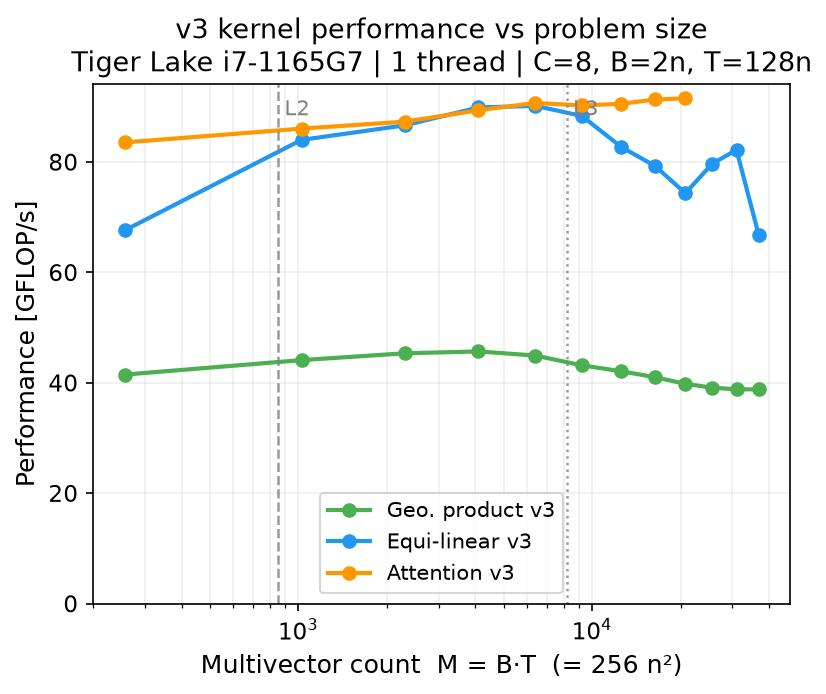
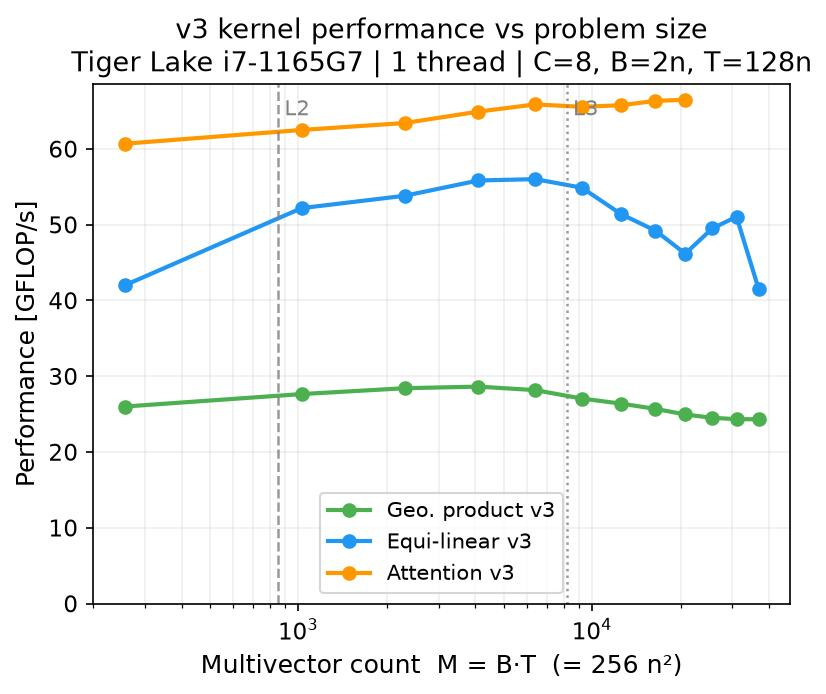
fix roofline plots: use FLOP/cycle x 2.8 GHz for GFLOP/s

diff --git a/benchmarks/plot_paper_figures.py b/benchmarks/plot_paper_figures.py
@@ -26,6 +26,7 @@ PEAK_BW_GBS = 45.0
 RIDGE       = PEAK_GFLOPS / PEAK_BW_GBS   # ~1.99 FLOP/byte
 L2_BYTES    = 1280 * 1024                  # Tiger Lake i7-1165G7
 L3_BYTES    = 12   * 1024 * 1024
+BASE_GHZ    = 2.8                          # Tiger Lake base clock (turbo-off)
 
 # ── Style ─────────────────────────────────────────────────────────────────────
 VC = {
@@ -78,9 +79,12 @@ def draw_roofline(ax):
 
 
 def papi_point(target):
+    """Clock-honest: FLOP/cycle * BASE_GHZ, immune to turbo boost."""
     p = PAPI3[target]
-    ai = p["arithmetic_intensity"]
-    gf = p["flops_per_call"] / p["min_s"] / 1e9
+    ai   = p["arithmetic_intensity"]
+    cyc  = p["papi_counters_mean_total_region"]["PAPI_TOT_CYC"]
+    flops = p["papi_counters_mean_total_region"]["PAPI_FP_OPS"]
+    gf   = (flops / cyc) * BASE_GHZ
     return ai, gf
 
 
@@ -165,9 +169,11 @@ KERN = {
 }
 
 def gflops_at_n(tgt, exp, n_ref=3):
-    """PAPI-anchored GFLOP/s at each n, using bench_repo timing ratios."""
+    """Clock-honest GFLOP/s at each n, using bench_repo timing ratios."""
     p = PAPI3[tgt]
-    papi_gf_n3 = p["flops_per_call"] / p["min_s"] / 1e9
+    cyc   = p["papi_counters_mean_total_region"]["PAPI_TOT_CYC"]
+    flops = p["papi_counters_mean_total_region"]["PAPI_FP_OPS"]
+    papi_gf_n3 = (flops / cyc) * BASE_GHZ  # clock-honest anchor at n=3
     t_n3 = REPO[tgt][n_ref]["min_ms"] / 1000.0
     results = []
     for n in range(1, 13):
@@ -307,7 +313,9 @@ PY_TIMING = {
 for name, t0, t3, py_key in summary_rows:
     s0, s3 = PAPI3[t0]["min_s"], PAPI3[t3]["min_s"]
     speedup_v0 = s0 / s3
-    gf3 = PAPI3[t3]["flops_per_call"] / s3 / 1e9
+    cyc3  = PAPI3[t3]["papi_counters_mean_total_region"]["PAPI_TOT_CYC"]
+    flops3 = PAPI3[t3]["papi_counters_mean_total_region"]["PAPI_FP_OPS"]
+    gf3 = (flops3 / cyc3) * BASE_GHZ  # clock-honest
     pct = gf3 / PEAK_GFLOPS * 100
     ai3 = PAPI3[t3]["arithmetic_intensity"]
     bound = "compute" if ai3 > RIDGE else "memory"
